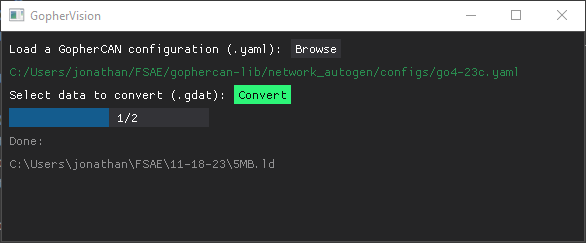
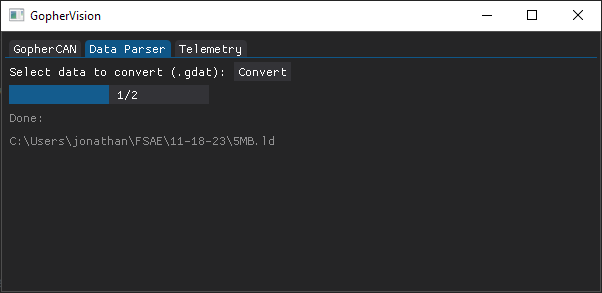
added telemetry tab to gui

diff --git a/gui.py b/gui.py
@@ -2,10 +2,26 @@ import dearpygui.dearpygui as dpg
 from tkinter import filedialog
 import tkinter as tk
 from pathlib import Path
+from collections import deque
+import struct
+import time
+import threading
+import socket
+import serial
 
 from lib import gcan
 from lib import gdat
 from lib import ld
+
+START = 0x7E
+ESC = 0x7D
+ESC_XOR = 0x20
+
+BAUD = 230400
+BLOCK_SIZE = 1000 # bytes to read in each update
+TIMEOUT = 1 # seconds to wait for desired block size
+
+PLOT_SIZE = 100
 
 COLORS = {
     'red': (231, 76, 60),
@@ -14,9 +30,75 @@ COLORS = {
 }
 
 parameters = {}
+channels = {}
+port = None
+
+def update_port(sender, app_data):
+    global port
+    port_input = dpg.get_value('port_input')
+    try:
+        # attempt to open a network socket on localhost
+        port = socket.socket(socket.AF_INET, socket.SOCK_DGRAM) # UDP socket
+        port.bind(('127.0.0.1', int(port_input)))
+    except:
+        try:
+            # attempt to open a serial port
+            port = serial.Serial(port_input, BAUD, timeout=TIMEOUT)
+        except:
+            print(f'ERROR: unrecognized port "{port_input}"')
+            dpg.configure_item('port_invalid', show=True)
+            return
+    dpg.configure_item('port_invalid', show=False)
+    print(f'port set: {port_input} type={type(port)}')
+
+def rx():
+    global port
+    while True:
+        if type(port) == socket.socket:
+            bytes = port.recv(BLOCK_SIZE)
+        elif type(port) == serial.Serial:
+            bytes = port.read(BLOCK_SIZE)
+        else:
+            time.sleep(1)
+            continue
+
+        packets = bytes.split(START.to_bytes(1, 'big'))
+        for packet in packets:
+            # unescape packet
+            pkt = bytearray()
+            esc = False
+            for b in packet:
+                if b == ESC:
+                    esc = True
+                elif esc:
+                    pkt.append(b ^ ESC_XOR)
+                    esc = False
+                else:
+                    pkt.append(b)
+            # unpack components
+            try:
+                ts, id = struct.unpack('>IH', pkt[0:6])
+                value = struct.unpack(parameters[id]['format'], pkt[6:-1])[0]
+            except:
+                # print(f'failed to decode: {packet}')
+                continue
+            # validate checksum
+            sum = START
+            for b in pkt[:-1]: sum += b
+            if sum.to_bytes(2, 'big')[-1] != pkt[-1]:
+                # print(f'invalid checksum: {packet}')
+                continue
+            # add datapoint to channel
+            try:
+                channels[id]['x'].append(ts)
+                channels[id]['y'].append(value)
+            except:
+                continue
 
 def load_config(sender):
     global parameters
+    global channels
+
     root = tk.Tk()
     root.withdraw()
     path = filedialog.askopenfilename(
@@ -29,6 +111,14 @@ def load_config(sender):
         return
     
     parameters = gcan.get_params(gcan.load_path(path))
+    channels = {
+        id: {
+            'x': deque([0], maxlen=PLOT_SIZE),
+            'y': deque([0], maxlen=PLOT_SIZE)
+        } for id in parameters.keys()
+    }
+
+    # update loaded config path
     dpg.configure_item('config_path', default_value=path, color=COLORS['green'])
     # enable convert button once a config is loaded
     dpg.configure_item('convert_btn', enabled=True)
@@ -49,6 +139,10 @@ def load_config(sender):
                     dpg.add_text(parameter['name'])
                     dpg.add_text(parameter['unit'])
                     dpg.add_text(parameter['type'])
+    # reset parameter list in telemetry tab
+    dpg.delete_item('parameter_list', children_only=True)
+    for parameter in parameters.values():
+        dpg.add_selectable(parent='parameter_list', label=parameter['name'], filter_key=parameter['name'], callback=add_plot, user_data=parameter['id'])
 
 def convert(sender):
     global parameters
@@ -90,6 +184,23 @@ def convert(sender):
         dpg.add_text(ld_path, parent='convert_done', color=COLORS['gray'])
     dpg.configure_item('convert_loading', overlay='')
 
+def add_plot(sender, app_data, pid):
+    parameter = parameters[pid]
+
+    # clean-up in case this plot was removed and re-added
+    if dpg.does_alias_exist(f'{pid}_x'): dpg.remove_alias(f'{pid}_x')
+    if dpg.does_alias_exist(f'{pid}_y'): dpg.remove_alias(f'{pid}_y')
+    if dpg.does_alias_exist(f'{pid}_series'): dpg.remove_alias(f'{pid}_series')
+    if dpg.does_alias_exist(f'{pid}_value'): dpg.remove_alias(f'{pid}_value')
+
+    # add new plot
+    with dpg.collapsing_header(label=f"{parameter['name']} ({pid})", closable=True, parent='tab-telemetry'):
+        with dpg.plot(width=-1, height=150, no_mouse_pos=True, no_box_select=True, use_local_time=True):
+            dpg.add_plot_axis(dpg.mvXAxis, time=True, tag=f'{pid}_x')
+            dpg.add_plot_axis(dpg.mvYAxis, label=parameter['unit'], tag=f'{pid}_y')
+            dpg.add_line_series(list(channels[pid]['x']), list(channels[pid]['y']), label=parameter['name'], parent=f'{pid}_y', tag=f'{pid}_series')
+            dpg.add_plot_annotation(label='0.0', offset=(float('inf'), float('inf')), tag=f'{pid}_value')
+
 dpg.create_context()
 dpg.create_viewport(title='GopherVision', width=800, height=600)
 
@@ -111,13 +222,31 @@ with dpg.window(tag='window'):
             with dpg.group(tag='convert_done'):
                 dpg.add_text('Done:', color=COLORS['gray'])
 
-        with dpg.tab(label='Telemetry'):
-            pass
+        with dpg.tab(label='Telemetry', tag='tab-telemetry'):
+            with dpg.group(horizontal=True):
+                dpg.add_text('Port:')
+                dpg.add_input_text(tag='port_input', width=150)
+                dpg.add_button(label='Set', callback=update_port)
+                dpg.add_text('INVALID PORT', tag='port_invalid', color=COLORS['red'], show=False)
+            dpg.add_button(tag='add_btn', label='Add Parameter +')
+            with dpg.popup('add_btn', no_move=True, mousebutton=dpg.mvMouseButton_Left):
+                dpg.add_input_text(hint='Name', callback=lambda _, val: dpg.set_value('parameter_list', val))
+                with dpg.filter_set(tag='parameter_list'):
+                    pass
 
 dpg.setup_dearpygui()
 dpg.show_viewport()
 
+# start data receiving thread
+threading.Thread(target=rx, daemon=True).start()
+
 while dpg.is_dearpygui_running():
+    for (id, channel) in channels.items():
+        if dpg.does_item_exist(f'{id}_series'):
+            dpg.set_value(f'{id}_series', [list(channel['x']), list(channel['y'])])
+            dpg.set_item_label(f'{id}_value', round(channel['y'][-1], 3))
+            dpg.fit_axis_data(f'{id}_x')
+            dpg.fit_axis_data(f'{id}_y')
     dpg.render_dearpygui_frame()
 
 dpg.destroy_context()

diff --git a/README.md b/README.md
@@ -4,7 +4,9 @@
 
 _Just want the GUI?_ Vist the [Releases](https://github.com/gopher-motorsports/gopher-vision/releases) page to download the latest version of the desktop app. You can find `GopherVision.exe` under the "Assets" dropdown.
 
+![](img/gcan.png)
 ![](img/parser.png)
+![](img/telemetry.png)
 
 ## Installation
 
@@ -130,5 +132,5 @@ python live-plot.py [PORT] [CONFIG_NAME]
 
 Build `GopherVision.exe`:
 ```
-pyinstaller gui.py --onefile --distpath ./ --name GopherVision
+pyinstaller gui.py --onefile --distpath ./ --name GopherVision_vX.X
 ```
